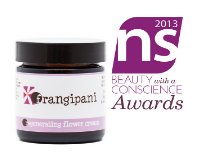
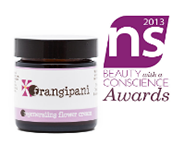
Change css for .card img to be max-width 100% and max-height 100% and commented out some photos

diff --git a/css/cards.css b/css/cards.css
@@ -64,7 +64,8 @@ margin-left:20px; <--but then there's 20px added on to last child, too
     background-color: lightcyan;
 }
 .card img {
-    width: 100%;
+    max-width: 100%;
+    max-height: 100%;
 }
 .card:hover {
     box-shadow: 0 0 40px 2px #e6e6e6;

diff --git a/bath_&_beauty.php b/bath_&_beauty.php
@@ -73,50 +73,50 @@ require './includes/nav.inc.php';
                 <a href="#"><img class="share" src="images/icons/share1.jpg"/></a>
             </div>
         </div>
-        <div class="card xs">
-            <img src="images/products/bathBeauty/hickoryRidgeSoaps/blackRaspberryVanilla.PNG">
-            <div class="card-content">
-                <a href="#"><h4>Black Raspberry Vanilla Bath Bomb</h4></a>
-                <p>
-                    Silken smooth skin will be yours after warm raspberries and plums mix with soothing vanilla, salts and clays in this bath bomb that will melt your worries away!
-                </p>
-                <p class="price">$4.99</p>
-                <a href="#"><img class="share" src="images/icons/share1.jpg"/></a>
-            </div>
-        </div>
-        <div class="card xs">
-            <img src="images/products/bathBeauty/hickoryRidgeSoaps/sweetPeaWhippedBodyFrosting.PNG">
-            <div class="card-content">
-                <a href="#"><h4>Sweet Pea Fluffy Whipped Soap Body Frosting</h4></a>
-                <p>
-                    A rich and creamy lather awaits you with  Fluffy Whipped Soap Body Frostings.  An explosion of suds arrive as the soap gently cleans your skin. A perfect shaving...
-                </p>
-                <p class="price">$7.99</p>
-                <a href="#"><img class="share" src="images/icons/share1.jpg"/></a>
-            </div>
-        </div>
-        <div class="card xs">
-            <img src="images/products/bathBeauty/hickoryRidgeSoaps/loveSpellWhippedBodyFrosting.PNG">
-            <div class="card-content">
-                <a href="#"><h4>Love Spell Fluffy Whipped Soap Body Frosting</h4></a>
-                <p>
-                    A rich and creamy lather awaits you with  Fluffy Whipped Soap Body Frostings.  An explosion of suds arrive as the soap gently cleans your skin. A perfect shaving...
-                </p>
-                <p class="price">$7.99</p>
-                <a href="#"><img class="share" src="images/icons/share1.jpg"/></a>
-            </div>
-        </div>
-        <div class="card xs">
-            <img src="images/products/bathBeauty/frangipani/blemishSerumFront.PNG">
-            <div class="card-content">
-                <a href="#"><h4>Blemish Serum</h4></a>
-                <p>
-                    When you have acne, the last thing you want to do is put more oil on your face, right? Not necessarily! In fact, there are some oils that have healing,...
-                </p>
-                <p class="price">$21.00</p>
-                <a href="#"><img class="share" src="images/icons/share1.jpg"/></a>
-            </div>
-        </div>
+<!--        <div class="card xs">-->
+<!--            <img src="images/products/bathBeauty/hickoryRidgeSoaps/blackRaspberryVanilla.PNG">-->
+<!--            <div class="card-content">-->
+<!--                <a href="#"><h4>Black Raspberry Vanilla Bath Bomb</h4></a>-->
+<!--                <p>-->
+<!--                    Silken smooth skin will be yours after warm raspberries and plums mix with soothing vanilla, salts and clays in this bath bomb that will melt your worries away!-->
+<!--                </p>-->
+<!--                <p class="price">$4.99</p>-->
+<!--                <a href="#"><img class="share" src="images/icons/share1.jpg"/></a>-->
+<!--            </div>-->
+<!--        </div>-->
+<!--        <div class="card xs">-->
+<!--            <img src="images/products/bathBeauty/hickoryRidgeSoaps/sweetPeaWhippedBodyFrosting.PNG">-->
+<!--            <div class="card-content">-->
+<!--                <a href="#"><h4>Sweet Pea Fluffy Whipped Soap Body Frosting</h4></a>-->
+<!--                <p>-->
+<!--                    A rich and creamy lather awaits you with  Fluffy Whipped Soap Body Frostings.  An explosion of suds arrive as the soap gently cleans your skin. A perfect shaving...-->
+<!--                </p>-->
+<!--                <p class="price">$7.99</p>-->
+<!--                <a href="#"><img class="share" src="images/icons/share1.jpg"/></a>-->
+<!--            </div>-->
+<!--        </div>-->
+<!--        <div class="card xs">-->
+<!--            <img src="images/products/bathBeauty/hickoryRidgeSoaps/loveSpellWhippedBodyFrosting.PNG">-->
+<!--            <div class="card-content">-->
+<!--                <a href="#"><h4>Love Spell Fluffy Whipped Soap Body Frosting</h4></a>-->
+<!--                <p>-->
+<!--                    A rich and creamy lather awaits you with  Fluffy Whipped Soap Body Frostings.  An explosion of suds arrive as the soap gently cleans your skin. A perfect shaving...-->
+<!--                </p>-->
+<!--                <p class="price">$7.99</p>-->
+<!--                <a href="#"><img class="share" src="images/icons/share1.jpg"/></a>-->
+<!--            </div>-->
+<!--        </div>-->
+<!--        <div class="card xs">-->
+<!--            <img src="images/products/bathBeauty/frangipani/blemishSerumFront.PNG">-->
+<!--            <div class="card-content">-->
+<!--                <a href="#"><h4>Blemish Serum</h4></a>-->
+<!--                <p>-->
+<!--                    When you have acne, the last thing you want to do is put more oil on your face, right? Not necessarily! In fact, there are some oils that have healing,...-->
+<!--                </p>-->
+<!--                <p class="price">$21.00</p>-->
+<!--                <a href="#"><img class="share" src="images/icons/share1.jpg"/></a>-->
+<!--            </div>-->
+<!--        </div>-->
         <div class="card xs">
             <img src="images/products/bathBeauty/frangipani/exfoliatingFaceGelFront.PNG">
             <div class="card-content">

diff --git a/good_craftsmen.php b/good_craftsmen.php
@@ -109,18 +109,18 @@ require './includes/nav.inc.php';
                 <a href="#"><img class="share" src="images/icons/share1.jpg"/></a>
             </div>
         </div>
-        <div class="card">
-            <img src="images/craftsman/craftHome/craftsman9-small.jpg">
-            <div class="card-content">
-                <a href="craftman.php"><h3>Excepteur Sint</h3></a>
-                <p>
-                    Duis aute irure dolor in reprehenderit in voluptate velit esse cillum dolore eu fugiat nulla
-                    pariatur. Excepteur sint occaecat cupidatat non proident, sunt in culpa qui officia deserunt mollit
-                    anim id est laborum.
-                </p>
-                <a href="#"><img class="share" src="images/icons/share1.jpg"/></a>
-            </div>
-        </div>
+<!--        <div class="card">-->
+<!--            <img src="images/craftsman/craftHome/craftsman9-small.jpg">-->
+<!--            <div class="card-content">-->
+<!--                <a href="craftman.php"><h3>Excepteur Sint</h3></a>-->
+<!--                <p>-->
+<!--                    Duis aute irure dolor in reprehenderit in voluptate velit esse cillum dolore eu fugiat nulla-->
+<!--                    pariatur. Excepteur sint occaecat cupidatat non proident, sunt in culpa qui officia deserunt mollit-->
+<!--                    anim id est laborum.-->
+<!--                </p>-->
+<!--                <a href="#"><img class="share" src="images/icons/share1.jpg"/></a>-->
+<!--            </div>-->
+<!--        </div>-->
 
         </div>
 
